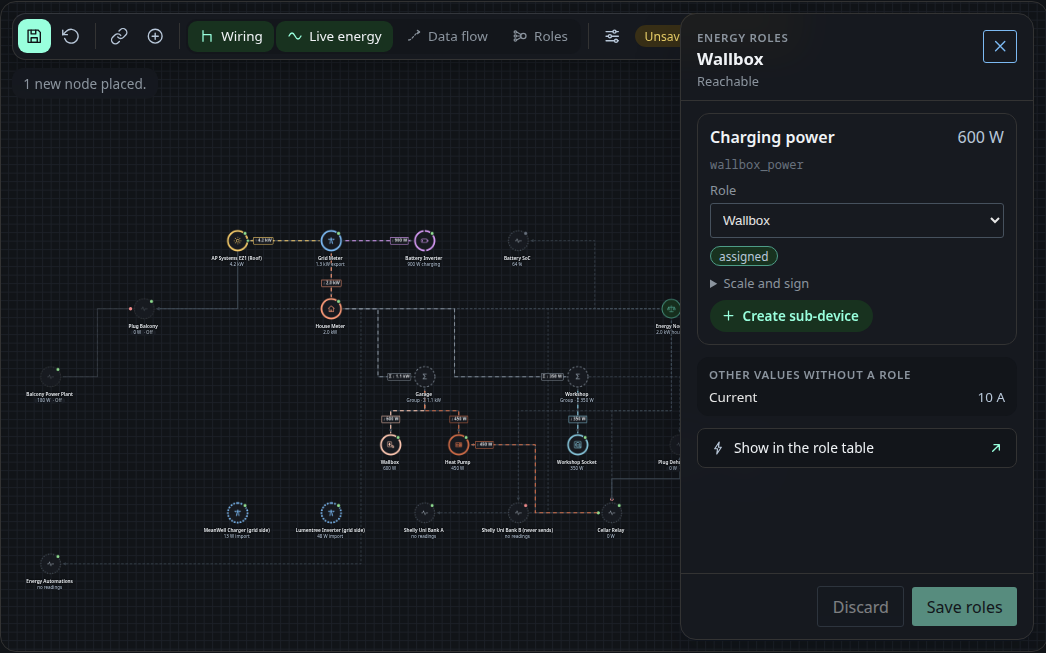
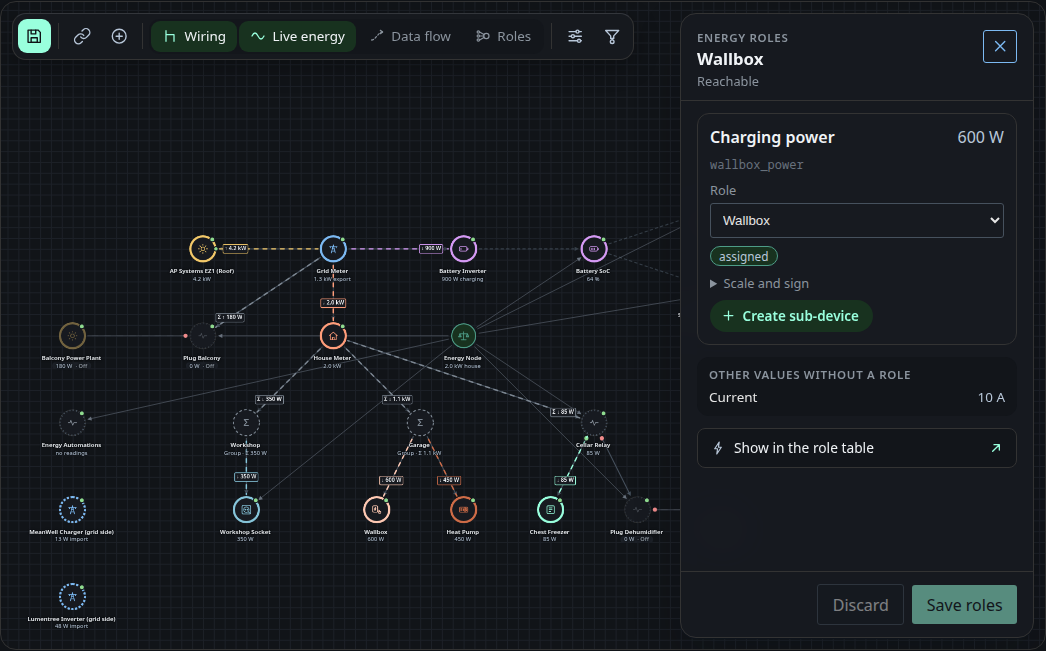
docs(devicemap): tidy the screenshot preset and regenerate the images (#173)
- docs(devicemap): tidy the screenshot preset and regenerate the images
- docs(install): recommend an image and package per Pi model

diff --git a/docs/install/index.md b/docs/install/index.md
@@ -53,10 +53,37 @@ python3 -m venv .venv && .venv/bin/pip install -e libs/energy_node_common -e lib
 
 ## 2. Operating system
 
-Use a 32-bit (armhf) Raspberry Pi OS Lite image. The 64-bit images do not run
-on ARMv6. If the current 32-bit image does not boot on a Pi 1, use Raspberry Pi
-OS (Legacy, 32-bit) Lite instead. The reference node runs Python 3.11.2, which
-is enough for every service in this repository (`requires-python >= 3.9`).
+Use a Lite image without a desktop. The node runs headless, and on the small
+models every megabyte of RAM counts. Pick the image by model:
+
+| Hardware | Image | Installation package | Tested |
+|---|---|---|---|
+| Pi 1 (A, A+, B, B+) | Raspberry Pi OS (Legacy, 32-bit) Lite | `armv6` | ✓ |
+| Pi Zero, Zero W | Raspberry Pi OS (Legacy, 32-bit) Lite | `armv6` | ✗ |
+| Pi 2 | Raspberry Pi OS Lite (32-bit) | `armv6` | ✗ |
+| Pi Zero 2 W | Raspberry Pi OS Lite (64-bit) | `arm64` | ✗ |
+| Pi 3, 3+ | Raspberry Pi OS Lite (64-bit) | `arm64` | ✗ |
+| Pi 4, 400 | Raspberry Pi OS Lite (64-bit) | `arm64` | ✗ |
+| Pi 5, 500 | Raspberry Pi OS Lite (64-bit) | `arm64` | ✗ |
+| x86 64-bit (Intel N100, N150) | Debian 13 netinst | `amd64` | ✗ |
+| x86 32-bit (Intel Quark X1000, Vortex86EX2) | not supported | none | ✗ |
+
+The 64-bit images do not run on ARMv6, so a Pi 1 or the first Zero always needs
+a 32-bit image. The Legacy image is the one the reference node runs on a Pi 1.
+A 32-bit image on a newer Pi works too and gets the `armv6` package. The
+installer picks the package from the node's `uname -m`.
+
+On an x86 machine, keep only **SSH server** and **standard system utilities**
+in the Debian installer's software selection. There is no package for 32-bit
+x86, so the CPU must support 64-bit (x86-64). The installer stops on such a
+machine because it finds no package for its `uname -m` (`i586` or `i686`).
+Leave the root password empty during the installation, then Debian gives the
+first user `sudo`. The installer needs it without a password, which a Raspberry
+Pi OS user has by default. On Debian, add it yourself with a file in
+`/etc/sudoers.d/`.
+
+The reference node runs Python 3.11.2, which is enough for every service in
+this repository (`requires-python >= 3.9`).
 
 Flash the card with the Raspberry Pi Imager and set hostname, user, SSH and
 WiFi there. On a headless remote site you do not want to find out afterwards

diff --git a/dashboard/CHANGELOG.md b/dashboard/CHANGELOG.md
@@ -1,6 +1,6 @@
 # Changelog
 
-## v0.10.18 (2026-10-26)
+## v0.10.19 (2026-10-26)
 
 ### Features
 
@@ -13,6 +13,7 @@
 - **automations:** The zero feed template sets the regulator target by dragging a band on the grid axis, with yesterday's grid power as a guide. (#169) (58993de)
 - **auth:** Permissions are enforced: accounts only see the pages they may view and only change what they may change. (#170) (ab1e04a)
 - **updates:** install the offered update from the update bar (#171) (98937ad)
+- **automations:** New assistant templates for heat pump, low tariff charging, grid cap, §14a control signal, heating rod and missing PV yield. (#172) (b9759f5)
 - **automations:** minimum run time and pause fields in the scenario editor (5d8e12a)
 - **automations:** assistant context knows heat pumps, batteries and prices (8f19986)
 - **automations:** numbers, devices and reveal steps in the assistant logic (2adf4b6)
@@ -27,7 +28,6 @@
 - **automations:** draggable surplus threshold scale (0617f46)
 - **automations:** threshold scale for every preset step (5843854)
 - **automations:** refine the threshold slider (a78e6ed)
-- **automations:** New assistant templates for heat pump, low tariff charging, grid cap, §14a control signal, heating rod and missing PV yield. (#172)
 - **updates:** installer for exactly the offered update (f7ef7b7)
 - **httpapi:** install the offered update without the installer screen (cca3946)
 - **dashboard:** wire the offered-update installer (b46f53a)
@@ -178,6 +178,7 @@
 
 ### Documentation
 
+- **devicemap:** tidy the screenshot preset and regenerate the images (#173)
 - installing the offered update (5903807)
 - route access groups (10f6edb)
 - **automations:** plainer texts and template names in the assistant (18224e9)

diff --git a/services/automation/CHANGELOG.md b/services/automation/CHANGELOG.md
@@ -5,10 +5,10 @@
 ### Features
 
 - **automations:** A template assistant creates scenarios and rules from a few questions, with five templates such as zero feed-in and surplus charging. (#166) (2011db4)
+- **automations:** New assistant templates for heat pump, low tariff charging, grid cap, §14a control signal, heating rod and missing PV yield. (#172) (b9759f5)
+- **automation:** Automation rules can repeat their actions while their conditions hold. (#163) (1f30b74)
 - **automation:** minimum run time and pause for scenarios (16bade7)
 - **automations:** minimum run time and pause fields in the scenario editor (5d8e12a)
-- **automations:** New assistant templates for heat pump, low tariff charging, grid cap, §14a control signal, heating rod and missing PV yield. (#172)
-- **automation:** Automation rules can repeat their actions while their conditions hold. (#163) (1f30b74)
 - **automations:** maximum duration field in the scenario editor (2d7cf1a)
 - **automations:** validated assistant template fixture (7b58e68)
 - **automation:** whole-day time windows and a maximum scenario duration (5483950)

diff --git a/docs/installer.md b/docs/installer.md
@@ -34,6 +34,9 @@ working directory under `/var/lib`, which needs root. The Pi also needs
 internet access for the system packages and for Tailscale, and your computer
 must reach it by name or IP address.
 
+Which image fits which Pi is listed under
+[Operating system](install/index.md#2-operating-system).
+
 Your computer can run Windows, macOS or Linux. On Windows the window uses the
 Edge WebView2 runtime, which current Windows 10 and 11 installations include.
 On Linux it needs GTK with WebKitGTK. If no window can be opened, the installer
